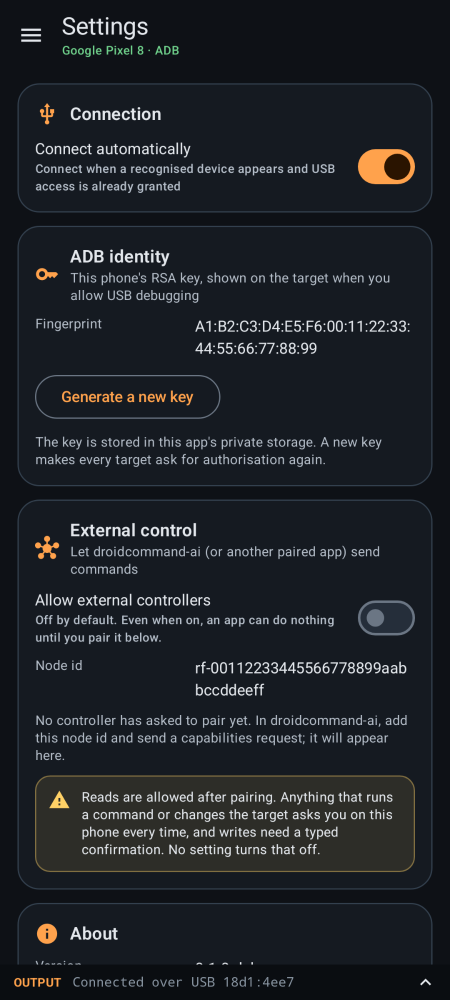
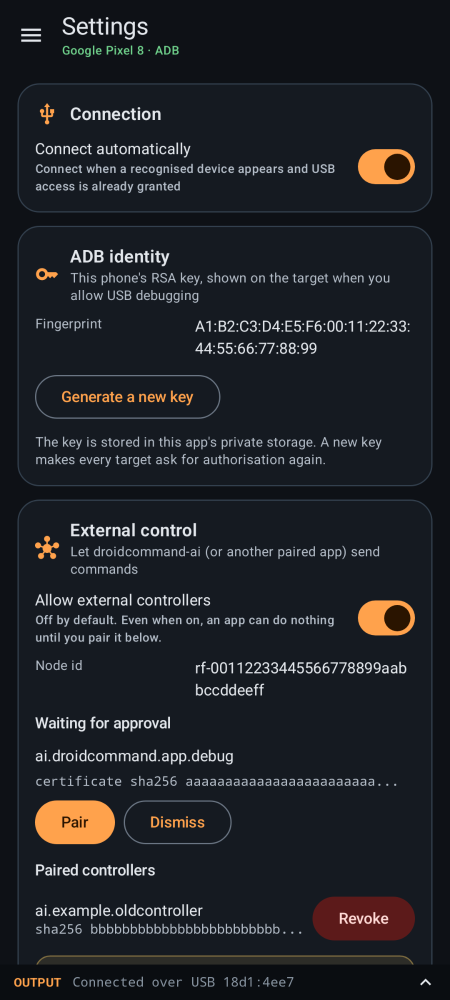
test(android): record Settings pairing snapshot and fix executor tests
approveNext must be a CoroutineScope extension so async compiles.
Paparazzi goldens now show a pending DCA caller and a paired controller.
Hermetic suite 1016/0; :core 68 tests; :app assembleDebug and 19 unit tests
green. Not installed on a phone and not bound from a live DCA.

Changed region(s): [[0.0311, 0.713, 0.9333, 0.961], [0.6844, 0.868, 0.9644, 0.961], [0.7778, 0.589, 0.9333, 0.651]]

diff --git a/android-app/core/src/test/kotlin/ai/rootforge/os/bridge/BridgeExecutorTest.kt b/android-app/core/src/test/kotlin/ai/rootforge/os/bridge/BridgeExecutorTest.kt
@@ -2,6 +2,7 @@ package ai.rootforge.os.bridge
 
 import ai.rootforge.os.core.ApprovalCenter
 import ai.rootforge.os.module.ModuleSpec
+import kotlinx.coroutines.CoroutineScope
 import kotlinx.coroutines.ExperimentalCoroutinesApi
 import kotlinx.coroutines.async
 import kotlinx.coroutines.delay
@@ -49,7 +50,7 @@ class BridgeExecutorTest {
 
     private fun parse(line: String) = bridgeJson.decodeFromString<BridgeResponse>(line)
 
-    private suspend fun approveNext(approvals: ApprovalCenter, ex: BridgeExecutor, request: String, ok: Boolean = true): BridgeResponse {
+    private suspend fun CoroutineScope.approveNext(approvals: ApprovalCenter, ex: BridgeExecutor, request: String, ok: Boolean = true): BridgeResponse {
         val pending = async { parse(ex.handle(request, caller)) }
         approvals.answer(approvals.pending.value.single().id, ok)
         return pending.await()

diff --git a/CLAUDE.md b/CLAUDE.md
@@ -17,17 +17,17 @@ validation **blocked** on infrastructure. Android host-phone APK is on `main`; t
 deepens the DroidCommand Messenger bridge. Not run on a device.
 
 **What is true now** (each verified by running it this session unless marked):
-- `bash tests/run-tests.sh` → 1016 passed, 0 failed on the merged tree (main's 1010 plus six
-  assertions for the same-sized OTA rewrite). `bash tests/lint.sh` → clean with shellcheck
-  0.9.0.
-- On the merged tree `cd android-app && ./gradlew :core:test :desktop:compileKotlin` → BUILD
-  SUCCESSFUL, `:core` 48 tests, 0 failed. `:app:assembleDebug` / `:app:testDebugUnitTest` were
-  **not** re-run after the merge (no Android SDK on this agent); their last recorded result
-  (main, #48/#49: `:app` 19 tests, APK built) is from a prior session. **Not installed on a
-  phone, not exercised over USB.**
-- `./gradlew :desktop:packageDeb` → `android-app/desktop/build/compose/binaries/main/deb/rootforgeos_0.1.0-1_amd64.deb`
-  (local, gitignored). Windows `.exe`/`.msi` not built here. Docker image **not** built
-  (`docker` is not installed on this agent). **Not run against a PC/phone pair.**
+- `bash tests/run-tests.sh` → 1016 passed, 0 failed. `bash tests/lint.sh` → clean with
+  shellcheck 0.9.0 (installed this session; was missing on the image).
+- `cd android-app && ./gradlew :core:test :app:assembleDebug :app:testDebugUnitTest :desktop:compileKotlin`
+  → BUILD SUCCESSFUL. `:core` 68 tests, 0 failed (27 BridgeExecutor + 4 PairingStore). `:app`
+  19 tests (protocol + Paparazzi), 0 failed. `:app:verifyPaparazziDebug` green after recording
+  the Settings pairing snapshot. Debug APK at
+  `android-app/app/build/outputs/apk/debug/app-debug.apk`. **Not installed on a phone, not
+  bound from a live DCA, not exercised over USB.**
+- `./gradlew :desktop:packageDeb` was **not** re-run. Windows `.exe`/`.msi` not built.
+  Docker image **not** built (`docker` is not installed on this agent). **Not run against a
+  PC/phone pair.**
 - `extract_ota.sh` / `rootforge ota extract` count an image as produced only when this run
   created or replaced it, judged by SHA-256 of the file. A reused output directory used to make
   an empty dump exit 0, and the CLI hashed a leftover `*.img` as if it had come from the payload
@@ -50,9 +50,9 @@ deepens the DroidCommand Messenger bridge. Not run on a device.
   Nothing is signed.
 - **Unsupported/not started:** UEFI/Secure Boot for the live ISO (BIOS only), remote
   administration. Android host-phone GUI APK is on `main` (USB Host, not Termux).
-  Linux/Windows desktop (`android-app/desktop`) and Docker toolkit (`docker/`) are on this
-  branch. No GitHub Release exists (tags `v0.1.0`, `v0.1.1` only), so the Termux install
-  paths need a locally generated or future release.
+  Linux/Windows desktop and Docker toolkit are on `main` (PR #49). This branch is the
+  Messenger bridge deepening. No GitHub Release exists (tags `v0.1.0`, `v0.1.1` only), so
+  the Termux install paths need a locally generated or future release.
 - Review: `docs/REVIEW.md`. App: `docs/ANDROID_APP.md`. Desktop/Docker: `docs/DESKTOP.md`.
   Bridge: `docs/DROIDCOMMAND_INTEGRATION.md`.
 
@@ -68,8 +68,10 @@ the check.**
 2. Extend the config schema only where a script consumes a key (Stage 3). Done: shared execution ID, `0600` script logs redacted at exit and by the CLI (pattern-based; SIGKILL outside the CLI and unrecognised secret shapes are the known gaps), and CLI-side audit events for `flash`/`backup`/`module`/`avd`/`boot patch`/`boot flash-last`.
 3. Pin/replace the Ollama installer; add release signing (Stage 4).
 4. Run the flash/backup/restore contract against a test device the owner agrees to flash.
-The Android GUI APK landed in PR #48. Linux/Windows/Docker toolkit clients are this
-branch. ISO Stage 5 is still blocked and is still the next hardware task.
+The Android GUI APK landed in PR #48. Linux/Windows/Docker toolkit clients landed in
+PR #49. The DroidCommand Messenger path is this branch (PR #52): all 11 documented
+operations, pairing UI, executor gates. ISO Stage 5 is still blocked and is still the
+next hardware task. A live DCA bind on a phone has not been run.
 
 **Open questions:** the `refusal_message()` wording in `core/device.py` was reconstructed
 from `docs/ARCHITECTURE_AUDIT.md`; the "governing directive" it cites was never found in the
